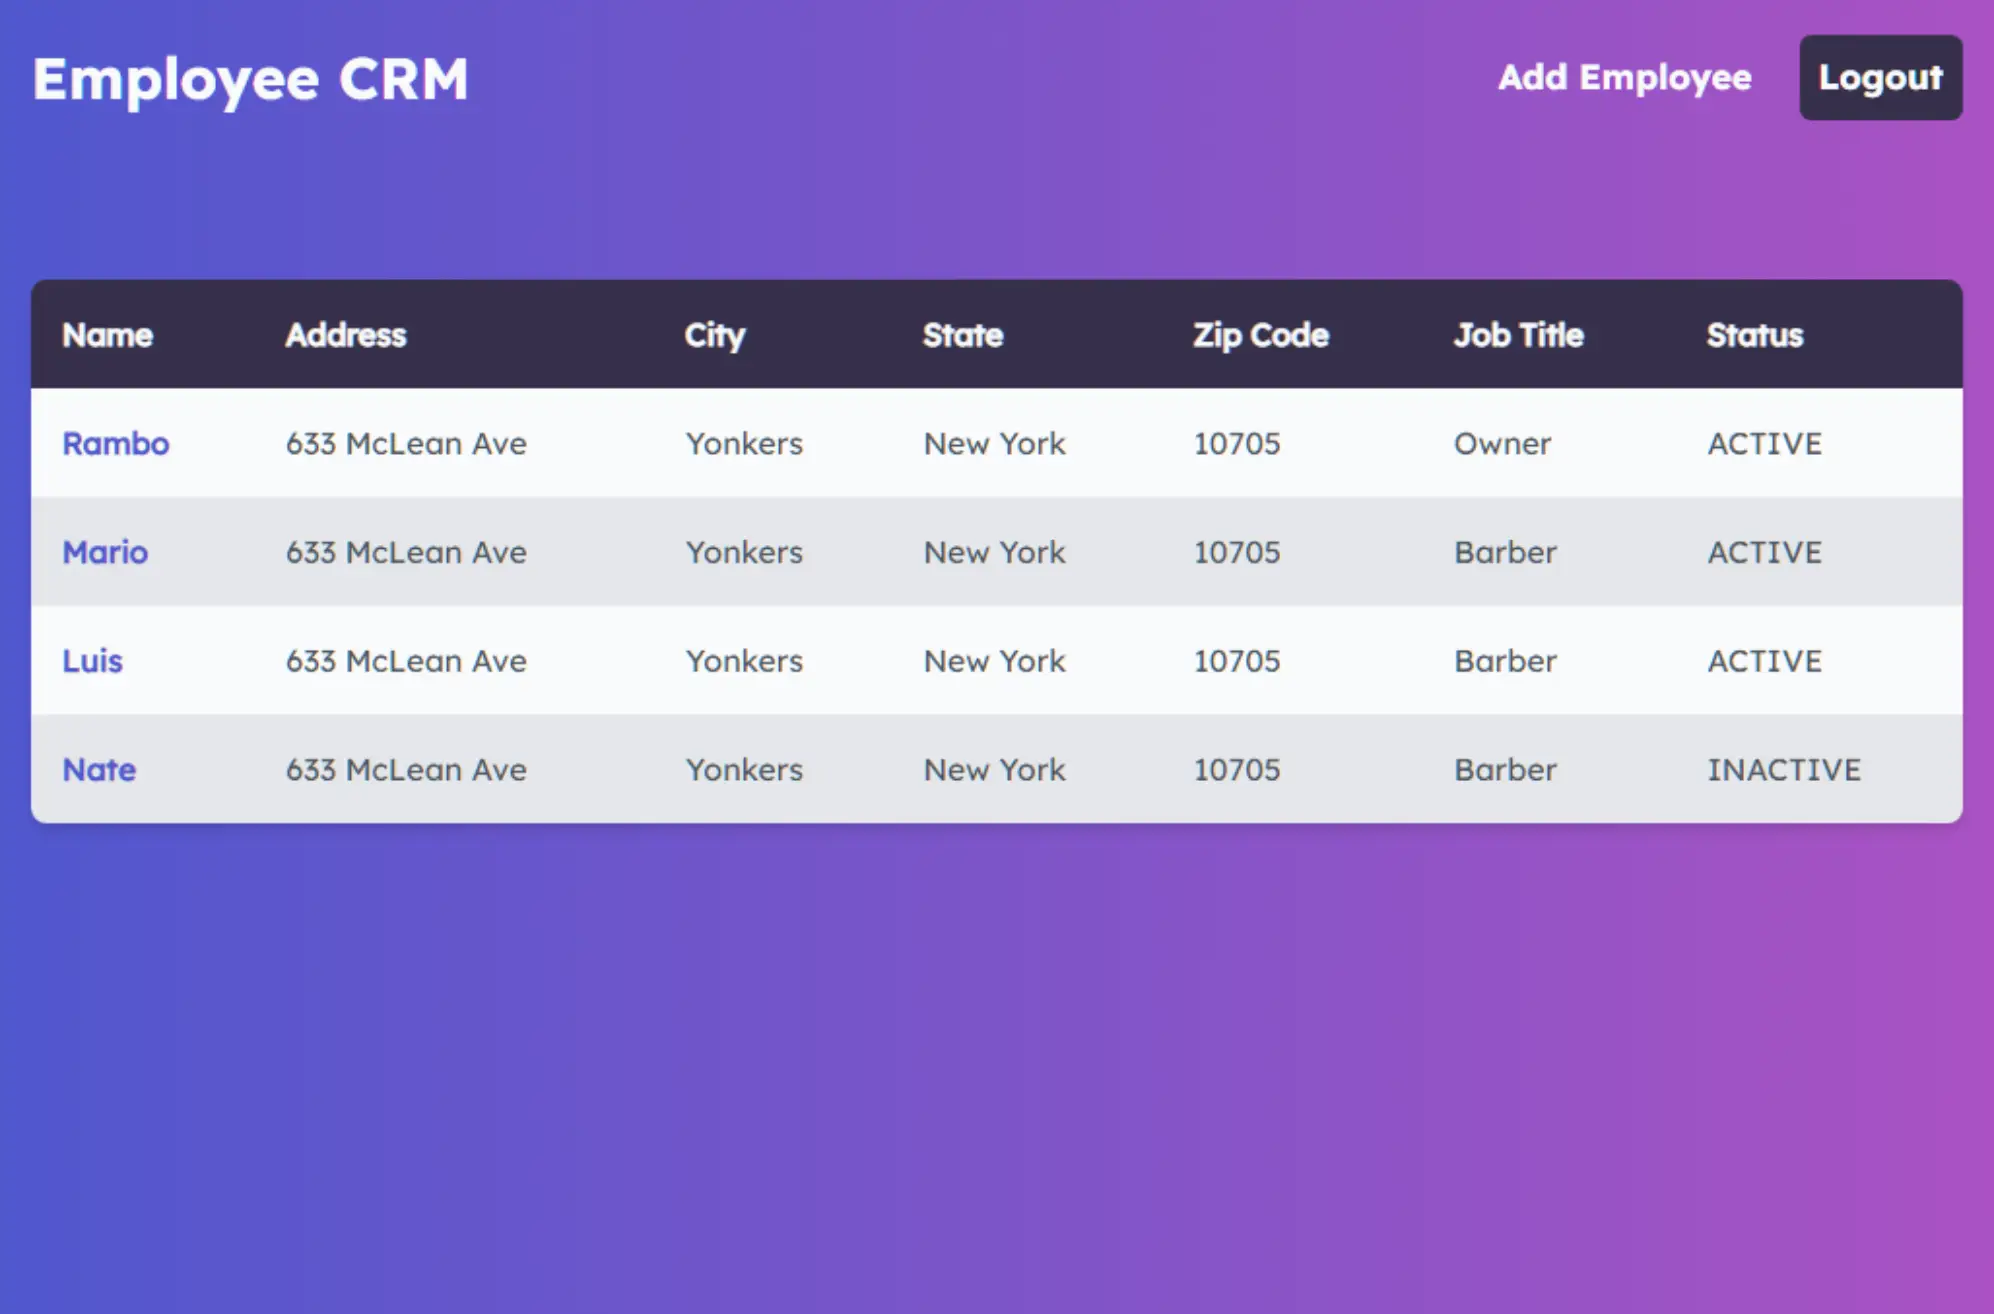
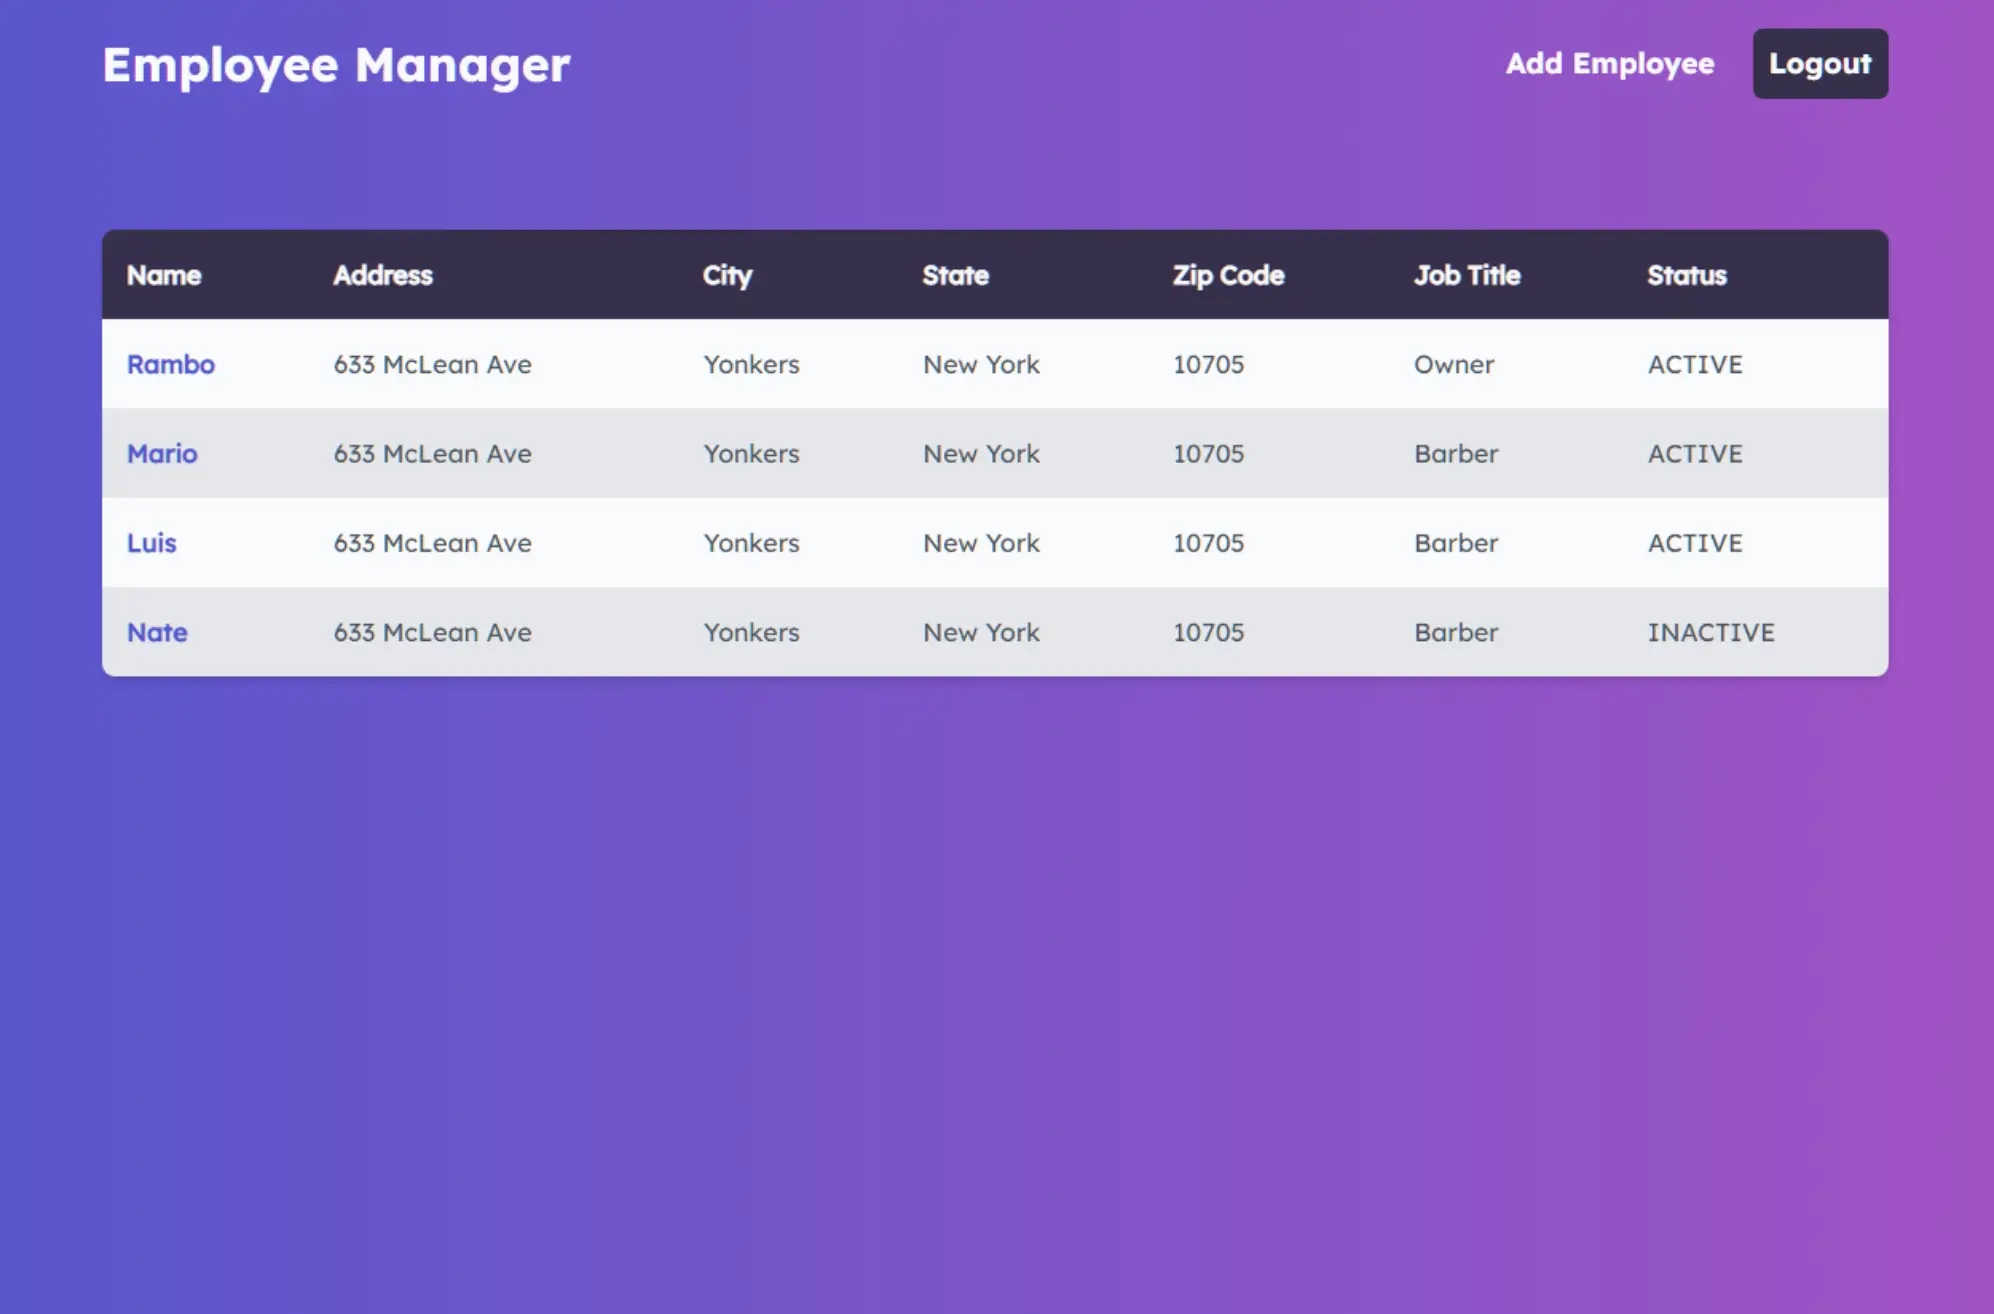
updated project images and links

diff --git a/src/pages/Projects.tsx b/src/pages/Projects.tsx
@@ -8,82 +8,6 @@ const Projects = () => {
       </h1>
       <section className='grid gap-8 py-12 sm:grid-cols-2'>
         <div className='overflow-hidden rounded-md border border-neutral-700'>
-          <img src='/images/project1.webp' alt='gameblog' />
-          <div className='flex flex-col space-y-4 p-4'>
-            <h2 className='font-lexbold text-2xl'>GameBlog</h2>
-            <p className='text-gray-300'>
-              A full-stack news blog web application that allows users to create
-              blog posts and share those posts with other users.
-            </p>
-            <div className='flex space-x-3'>
-              <a
-                href='https://gameblog.vzmars.com/'
-                target='_blank'
-                className='flex items-center gap-1 rounded-sm border-sky-500 bg-white px-2 py-1.5 text-sky-500 hover:opacity-95'
-              >
-                <FaExternalLinkAlt />
-                Live
-              </a>
-              <a
-                href='https://github.com/vzMars/gameblog'
-                target='_blank'
-                className='flex items-center gap-1 rounded-sm border-sky-500 bg-white px-2 py-1.5 text-sky-500 hover:opacity-95'
-              >
-                <FaGithub />
-                Code
-              </a>
-            </div>
-            <div className='flex flex-wrap gap-3'>
-              <span className='rounded-sm bg-sky-500 p-1.5'>TypeScript</span>
-              <span className='rounded-sm bg-sky-500 p-1.5'>React</span>
-              <span className='rounded-sm bg-sky-500 p-1.5'>Tailwind CSS</span>
-            </div>
-            <div className='flex flex-wrap gap-3'>
-              <span className='rounded-sm bg-sky-500 p-1.5'>Node.js</span>
-              <span className='rounded-sm bg-sky-500 p-1.5'>Express</span>
-              <span className='rounded-sm bg-sky-500 p-1.5'>MongoDB</span>
-            </div>
-          </div>
-        </div>
-        <div className='overflow-hidden rounded-md border border-neutral-700'>
-          <img src='/images/project2.webp' alt='employee' />
-          <div className='flex flex-col space-y-4 p-4'>
-            <h2 className='font-lexbold text-2xl'>Employee CRM</h2>
-            <p className='text-gray-300'>
-              A full-stack CRM web application that allows companies to track
-              and manage the information of their employees.
-            </p>
-            <div className='flex space-x-3'>
-              <a
-                href='https://employeecrm.vzmars.com/'
-                target='_blank'
-                className='flex items-center gap-1 rounded-sm border-sky-500 bg-white px-2 py-1.5 text-sky-500 hover:opacity-95'
-              >
-                <FaExternalLinkAlt />
-                Live
-              </a>
-              <a
-                href='https://github.com/vzMars/employee-crm'
-                target='_blank'
-                className='flex items-center gap-1 rounded-sm border-sky-500 bg-white px-2 py-1.5 text-sky-500 hover:opacity-95'
-              >
-                <FaGithub />
-                Code
-              </a>
-            </div>
-            <div className='flex flex-wrap gap-3'>
-              <span className='rounded-sm bg-sky-500 p-1.5'>TypeScript</span>
-              <span className='rounded-sm bg-sky-500 p-1.5'>React</span>
-              <span className='rounded-sm bg-sky-500 p-1.5'>Tailwind CSS</span>
-            </div>
-            <div className='flex flex-wrap gap-3'>
-              <span className='rounded-sm bg-sky-500 p-1.5'>Java</span>
-              <span className='rounded-sm bg-sky-500 p-1.5'>Spring Boot</span>
-              <span className='rounded-sm bg-sky-500 p-1.5'>MongoDB</span>
-            </div>
-          </div>
-        </div>
-        <div className='overflow-hidden rounded-md border border-neutral-700'>
           <img src='/images/project4.webp' alt='manga-bot' />
           <div className='flex flex-col space-y-4 p-4'>
             <h2 className='font-lexbold text-2xl'>MangaNotifications</h2>
@@ -174,16 +98,16 @@ const Projects = () => {
           </div>
         </div>
         <div className='overflow-hidden rounded-md border border-neutral-700'>
-          <img src='/images/project6.webp' alt='itempickups' />
+          <img src='/images/project1.webp' alt='gameblog' />
           <div className='flex flex-col space-y-4 p-4'>
-            <h2 className='font-lexbold text-2xl'>ItemPickups</h2>
+            <h2 className='font-lexbold text-2xl'>GameBlog</h2>
             <p className='text-gray-300'>
-              A full-stack social media web application that allows users to
-              upload images and share them with other users.
+              A full-stack news blog web application that allows users to create
+              blog posts and share those posts with other users.
             </p>
             <div className='flex space-x-3'>
               <a
-                href='https://itempickups.fly.dev/'
+                href='https://gameblog.vzmars.com/'
                 target='_blank'
                 className='flex items-center gap-1 rounded-sm border-sky-500 bg-white px-2 py-1.5 text-sky-500 hover:opacity-95'
               >
@@ -191,7 +115,7 @@ const Projects = () => {
                 Live
               </a>
               <a
-                href='https://github.com/vzMars/item-pickups'
+                href='https://github.com/vzMars/gameblog'
                 target='_blank'
                 className='flex items-center gap-1 rounded-sm border-sky-500 bg-white px-2 py-1.5 text-sky-500 hover:opacity-95'
               >
@@ -200,14 +124,91 @@ const Projects = () => {
               </a>
             </div>
             <div className='flex flex-wrap gap-3'>
-              <span className='rounded-sm bg-sky-500 p-1.5'>JavaScript</span>
-              <span className='rounded-sm bg-sky-500 p-1.5'>EJS</span>
-              <span className='rounded-sm bg-sky-500 p-1.5'>Bootstrap</span>
+              <span className='rounded-sm bg-sky-500 p-1.5'>TypeScript</span>
+              <span className='rounded-sm bg-sky-500 p-1.5'>React</span>
+              <span className='rounded-sm bg-sky-500 p-1.5'>Tailwind CSS</span>
             </div>
             <div className='flex flex-wrap gap-3'>
               <span className='rounded-sm bg-sky-500 p-1.5'>Node.js</span>
               <span className='rounded-sm bg-sky-500 p-1.5'>Express</span>
               <span className='rounded-sm bg-sky-500 p-1.5'>MongoDB</span>
+            </div>
+          </div>
+        </div>
+        <div className='overflow-hidden rounded-md border border-neutral-700'>
+          <img src='/images/project2.webp' alt='employee' />
+          <div className='flex flex-col space-y-4 p-4'>
+            <h2 className='font-lexbold text-2xl'>Employee Manager</h2>
+            <p className='text-gray-300'>
+              A full-stack employee manager web application that allows
+              companies to track and manage the information of their employees.
+            </p>
+            <div className='flex space-x-3'>
+              <a
+                href='https://employeemanager.vzmars.com/'
+                target='_blank'
+                className='flex items-center gap-1 rounded-sm border-sky-500 bg-white px-2 py-1.5 text-sky-500 hover:opacity-95'
+              >
+                <FaExternalLinkAlt />
+                Live
+              </a>
+              <a
+                href='https://github.com/vzMars/employee-manager-api'
+                target='_blank'
+                className='flex items-center gap-1 rounded-sm border-sky-500 bg-white px-2 py-1.5 text-sky-500 hover:opacity-95'
+              >
+                <FaGithub />
+                Code
+              </a>
+            </div>
+            <div className='flex flex-wrap gap-3'>
+              <span className='rounded-sm bg-sky-500 p-1.5'>TypeScript</span>
+              <span className='rounded-sm bg-sky-500 p-1.5'>React</span>
+              <span className='rounded-sm bg-sky-500 p-1.5'>Tailwind CSS</span>
+            </div>
+            <div className='flex flex-wrap gap-3'>
+              <span className='rounded-sm bg-sky-500 p-1.5'>Java</span>
+              <span className='rounded-sm bg-sky-500 p-1.5'>Spring Boot</span>
+              <span className='rounded-sm bg-sky-500 p-1.5'>MongoDB</span>
+            </div>
+          </div>
+        </div>
+        <div className='overflow-hidden rounded-md border border-neutral-700'>
+          <img src='/images/project6.webp' alt='expensetracker' />
+          <div className='flex flex-col space-y-4 p-4'>
+            <h2 className='font-lexbold text-2xl'>Expense Tracker</h2>
+            <p className='text-gray-300'>
+              A full-stack expense tracker web application that allows users to
+              keep track of all of their transactions and visualize their data
+              using Chart.js.
+            </p>
+            <div className='flex space-x-3'>
+              <a
+                href='https://expensetracker.vzmars.com/'
+                target='_blank'
+                className='flex items-center gap-1 rounded-sm border-sky-500 bg-white px-2 py-1.5 text-sky-500 hover:opacity-95'
+              >
+                <FaExternalLinkAlt />
+                Live
+              </a>
+              <a
+                href='https://github.com/vzMars/expense-tracker-api'
+                target='_blank'
+                className='flex items-center gap-1 rounded-sm border-sky-500 bg-white px-2 py-1.5 text-sky-500 hover:opacity-95'
+              >
+                <FaGithub />
+                Code
+              </a>
+            </div>
+            <div className='flex flex-wrap gap-3'>
+              <span className='rounded-sm bg-sky-500 p-1.5'>TypeScript</span>
+              <span className='rounded-sm bg-sky-500 p-1.5'>React</span>
+              <span className='rounded-sm bg-sky-500 p-1.5'>Tailwind CSS</span>
+            </div>
+            <div className='flex flex-wrap gap-3'>
+              <span className='rounded-sm bg-sky-500 p-1.5'>Java</span>
+              <span className='rounded-sm bg-sky-500 p-1.5'>Spring Boot</span>
+              <span className='rounded-sm bg-sky-500 p-1.5'>PostgreSQL</span>
             </div>
           </div>
         </div>
